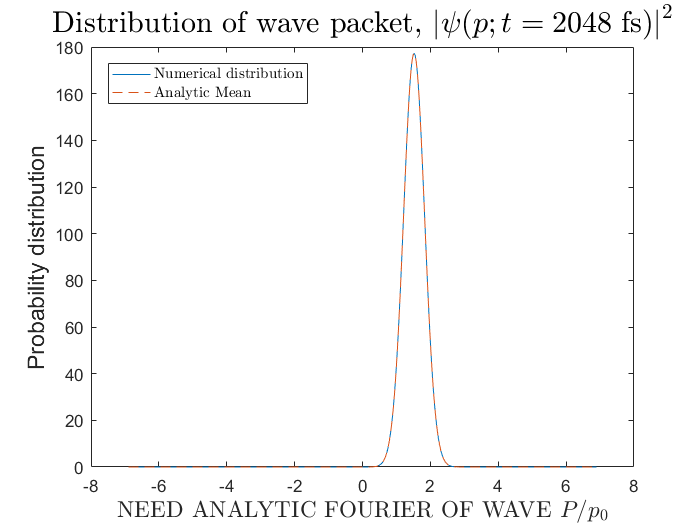
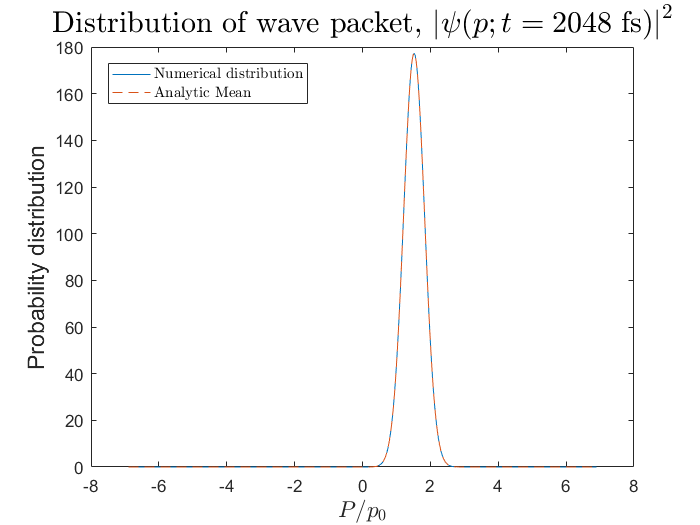
Changed To right parameter in task 3

Changed region(s): [[0.15, 0.9448, 0.87, 1.0]]

diff --git a/code/main2.m b/code/main2.m
@@ -51,7 +51,6 @@ plotX=1:n_points;
 figure(1); clf;
 plotHandle_1 = plot(x(plotX), abs(step_three(plotX)).^2);
 hold on
-plotHandle_Mean = plot([p_0*0*dt/m,p_0*0*dt/m],[0, max(abs(step_three(plotX)).^2)]);
 plotHandle_2 = plot(x(plotX), abs(Gaussian_Wave_Time_Evolution(plotX,0)).^2,'--');
 hold off
 
@@ -59,7 +58,7 @@ xlabel('Position / [\AA]', 'interpreter', 'latex', 'fontsize', 14)
 ylabel('Probability distribution', 'fontsize', 14)
 s=sprintf('Distribution of wave packet, $\\left| \\psi (x;t = %i \\; \\mathrm{fs}) \\right|^2$',j*dt);
 title(s, 'interpreter', 'latex', 'fontsize', 18)
-legend({'Numerical distribution','Analytic Mean','Analytic distribution'},'interpreter','latex','location','northwest')
+legend({'Numerical distribution','Analytic distribution'},'interpreter','latex','location','northwest')
 
 
 gaussian_momentum = abs(fftshift(fft(step_three(plotX)))).^2;
@@ -84,8 +83,6 @@ for j=1:n_points/2
 end
 
 set(plotHandle_1, 'YData', abs(step_three(plotX)).^2)
-set(plotHandle_Mean, 'YData',[0 max(Gaussian_Time_Probability(x(plotX),j*dt))])
-set(plotHandle_Mean, 'XData', [p_0*j*dt/m,p_0*j*dt/m])
 set(plotHandle_2, 'YData', Gaussian_Time_Probability(x(plotX),j*dt))
 
 s=sprintf('Distribution of wave packet, $\\left| \\psi (x;t = %i \\; \\mathrm{fs}) \\right|^2$',j*dt);
@@ -99,7 +96,7 @@ hold on
 % CHANGE TO ANALYTIC FOURIER
 plotHandle_2 = plot(p(plotX)/p_0, abs(fftshift(fft(Gaussian_Wave_Time_Evolution(x(plotX),j*dt)))).^2,'--');
 hold off
-xlabel('NEED ANALYTIC FOURIER OF WAVE $P/p_0$', 'interpreter', 'latex', 'fontsize', 14)
+xlabel('$P/p_0$', 'interpreter', 'latex', 'fontsize', 14)
 ylabel('Probability distribution', 'fontsize', 14)
 s=sprintf('Distribution of wave packet, $\\left| \\psi (p;t = %i \\; \\mathrm{fs}) \\right|^2$',j*dt);
 title(s, 'interpreter', 'latex', 'fontsize', 18)

diff --git a/code/main3.m b/code/main3.m
@@ -15,7 +15,8 @@ hbar        = 1.054/1.602; % JS -> f eV s
 d           = 0.5;
 m           = 1.66/1.6*1e2;
 x_0         = 0;
-p_0         = sqrt(0.1*2*m);
+e           = 0.12;
+p_0         = sqrt(e*2*m);
 dx          = 0.1;
 n_points    = 2^10;
 dp          = 2*pi/(n_points*dx);
@@ -59,5 +60,5 @@ right_integral = dx*sum(final_prob(n_points/2+1:end))
 
 xlabel('Position / [\AA]', 'interpreter', 'latex', 'fontsize', 14)
 ylabel('Probability distribution', 'fontsize', 14)
-s=sprintf('$\\left| \\psi (t = %i \\; \\mathrm{fs}) \\right|^2$',j*dt);
+s=sprintf('$\\alpha = %.1f$, $p_0^2/2m = %.2f$, $\\left| \\psi (x,t = %i \\; \\mathrm{fs}) \\right|^2$',alpha,e,j*dt);
 title(s, 'interpreter', 'latex', 'fontsize', 18)
